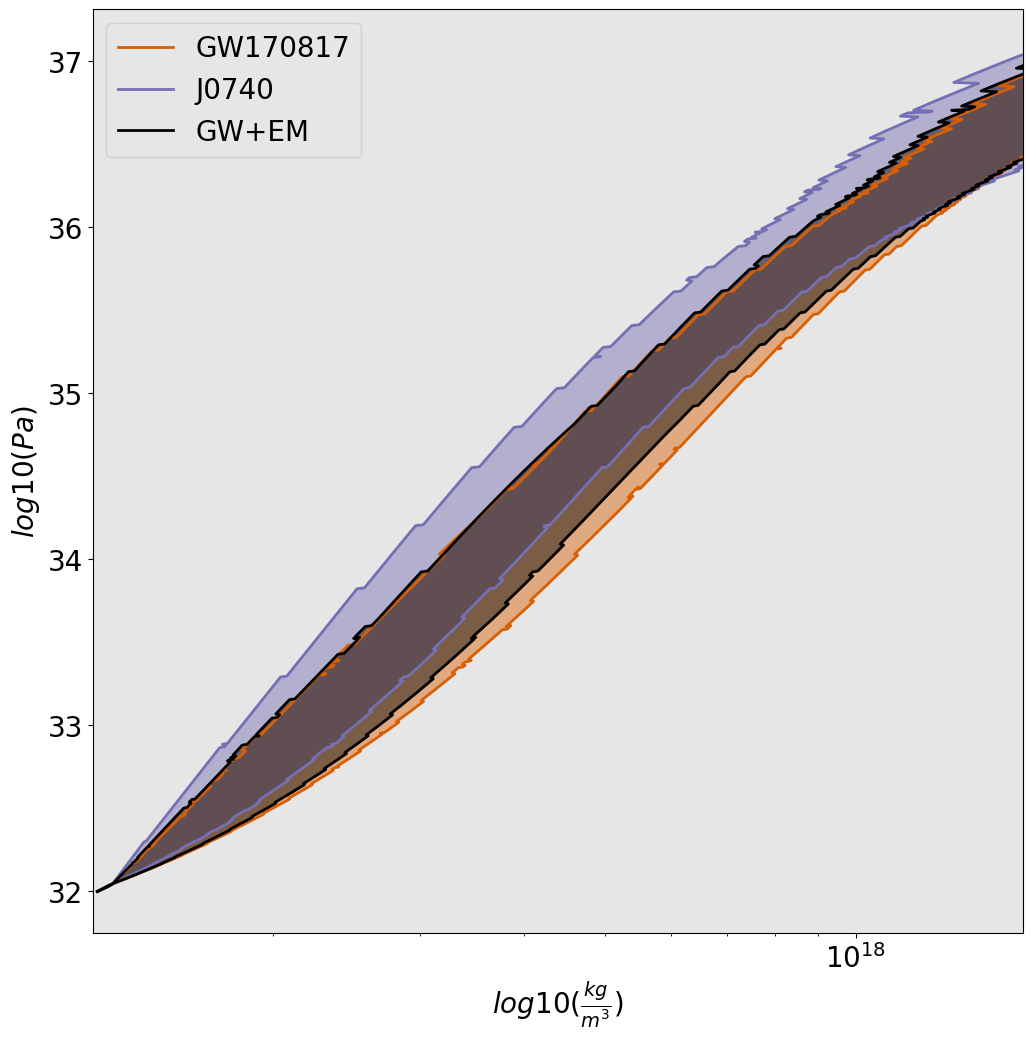
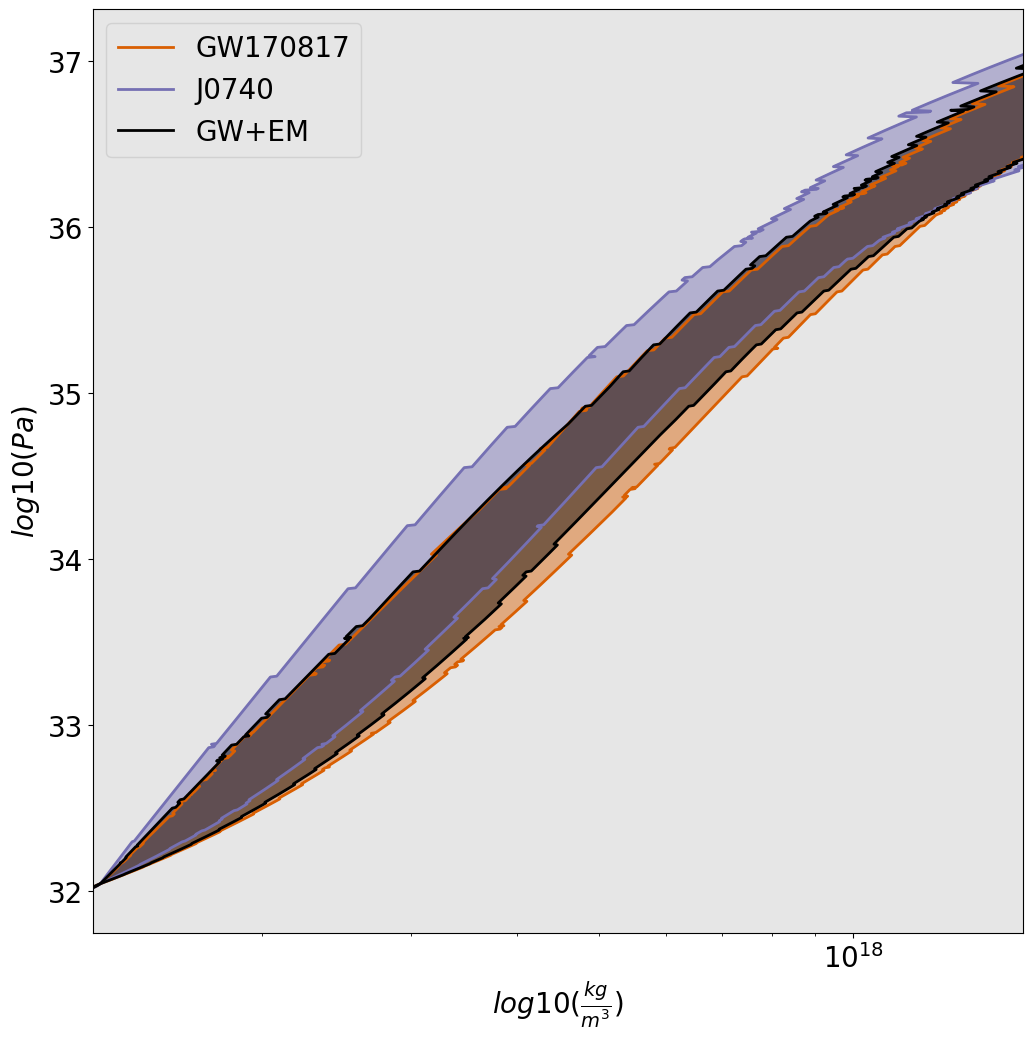
Plots of plots resembling Anarya's. 25th attempt.

diff --git a/joint_inference/development/confidence_interval.py b/joint_inference/development/confidence_interval.py
@@ -6,9 +6,9 @@ import corner
 def plot_intervals(outputfile):
     # Plots differently sourced confidence intervals on top of each other.
 
-    Files = ["run_data/8th_cutoff_plotting/spectral_p_vs_rho_cutoff_W100_S10000_GW170817_confidence.txt"]
-    labels = ["GW170817"]
-    colors = ["#d95f02"]
+#    Files = ["run_data/8th_cutoff_plotting/spectral_p_vs_rho_cutoff_W100_S10000_GW170817_confidence.txt"]
+#    labels = ["GW170817"]
+#    colors = ["#d95f02"]
 
 #    Files = ["run_data/8th_cutoff_plotting/spectral_p_vs_rho_cutoff_W100_S10000_J0740_confidence.txt"]
 #    labels = ["J0740"]
@@ -18,9 +18,9 @@ def plot_intervals(outputfile):
 #    labels = ["GW+EM"]
 #    colors = ["#1b9e77"]
 
-#    Files = ["run_data/8th_cutoff_plotting/spectral_p_vs_rho_cutoff_W100_S10000_GW170817_confidence.txt", "run_data/8th_cutoff_plotting/spectral_p_vs_rho_cutoff_W100_S10000_J0740_confidence.txt", "run_data/8th_cutoff_plotting/spectral_p_vs_rho_cutoff_W100_S10000_GW170817_J0740_hierarchical_confidence.txt"]
-#    labels = ["GW170817", "J0740", "GW+EM"]
-#    colors = ["#d95f02", "#7570b3", "#000000"]
+    Files = ["run_data/8th_cutoff_plotting/spectral_p_vs_rho_cutoff_W100_S10000_GW170817_confidence.txt", "run_data/8th_cutoff_plotting/spectral_p_vs_rho_cutoff_W100_S10000_J0740_confidence.txt", "run_data/8th_cutoff_plotting/spectral_p_vs_rho_cutoff_W100_S10000_GW170817_J0740_hierarchical_confidence.txt"]
+    labels = ["GW170817", "J0740", "GW+EM"]
+    colors = ["#d95f02", "#7570b3", "#000000"]
 
     pl.clf()
     pl.figure(figsize=(12,12))
